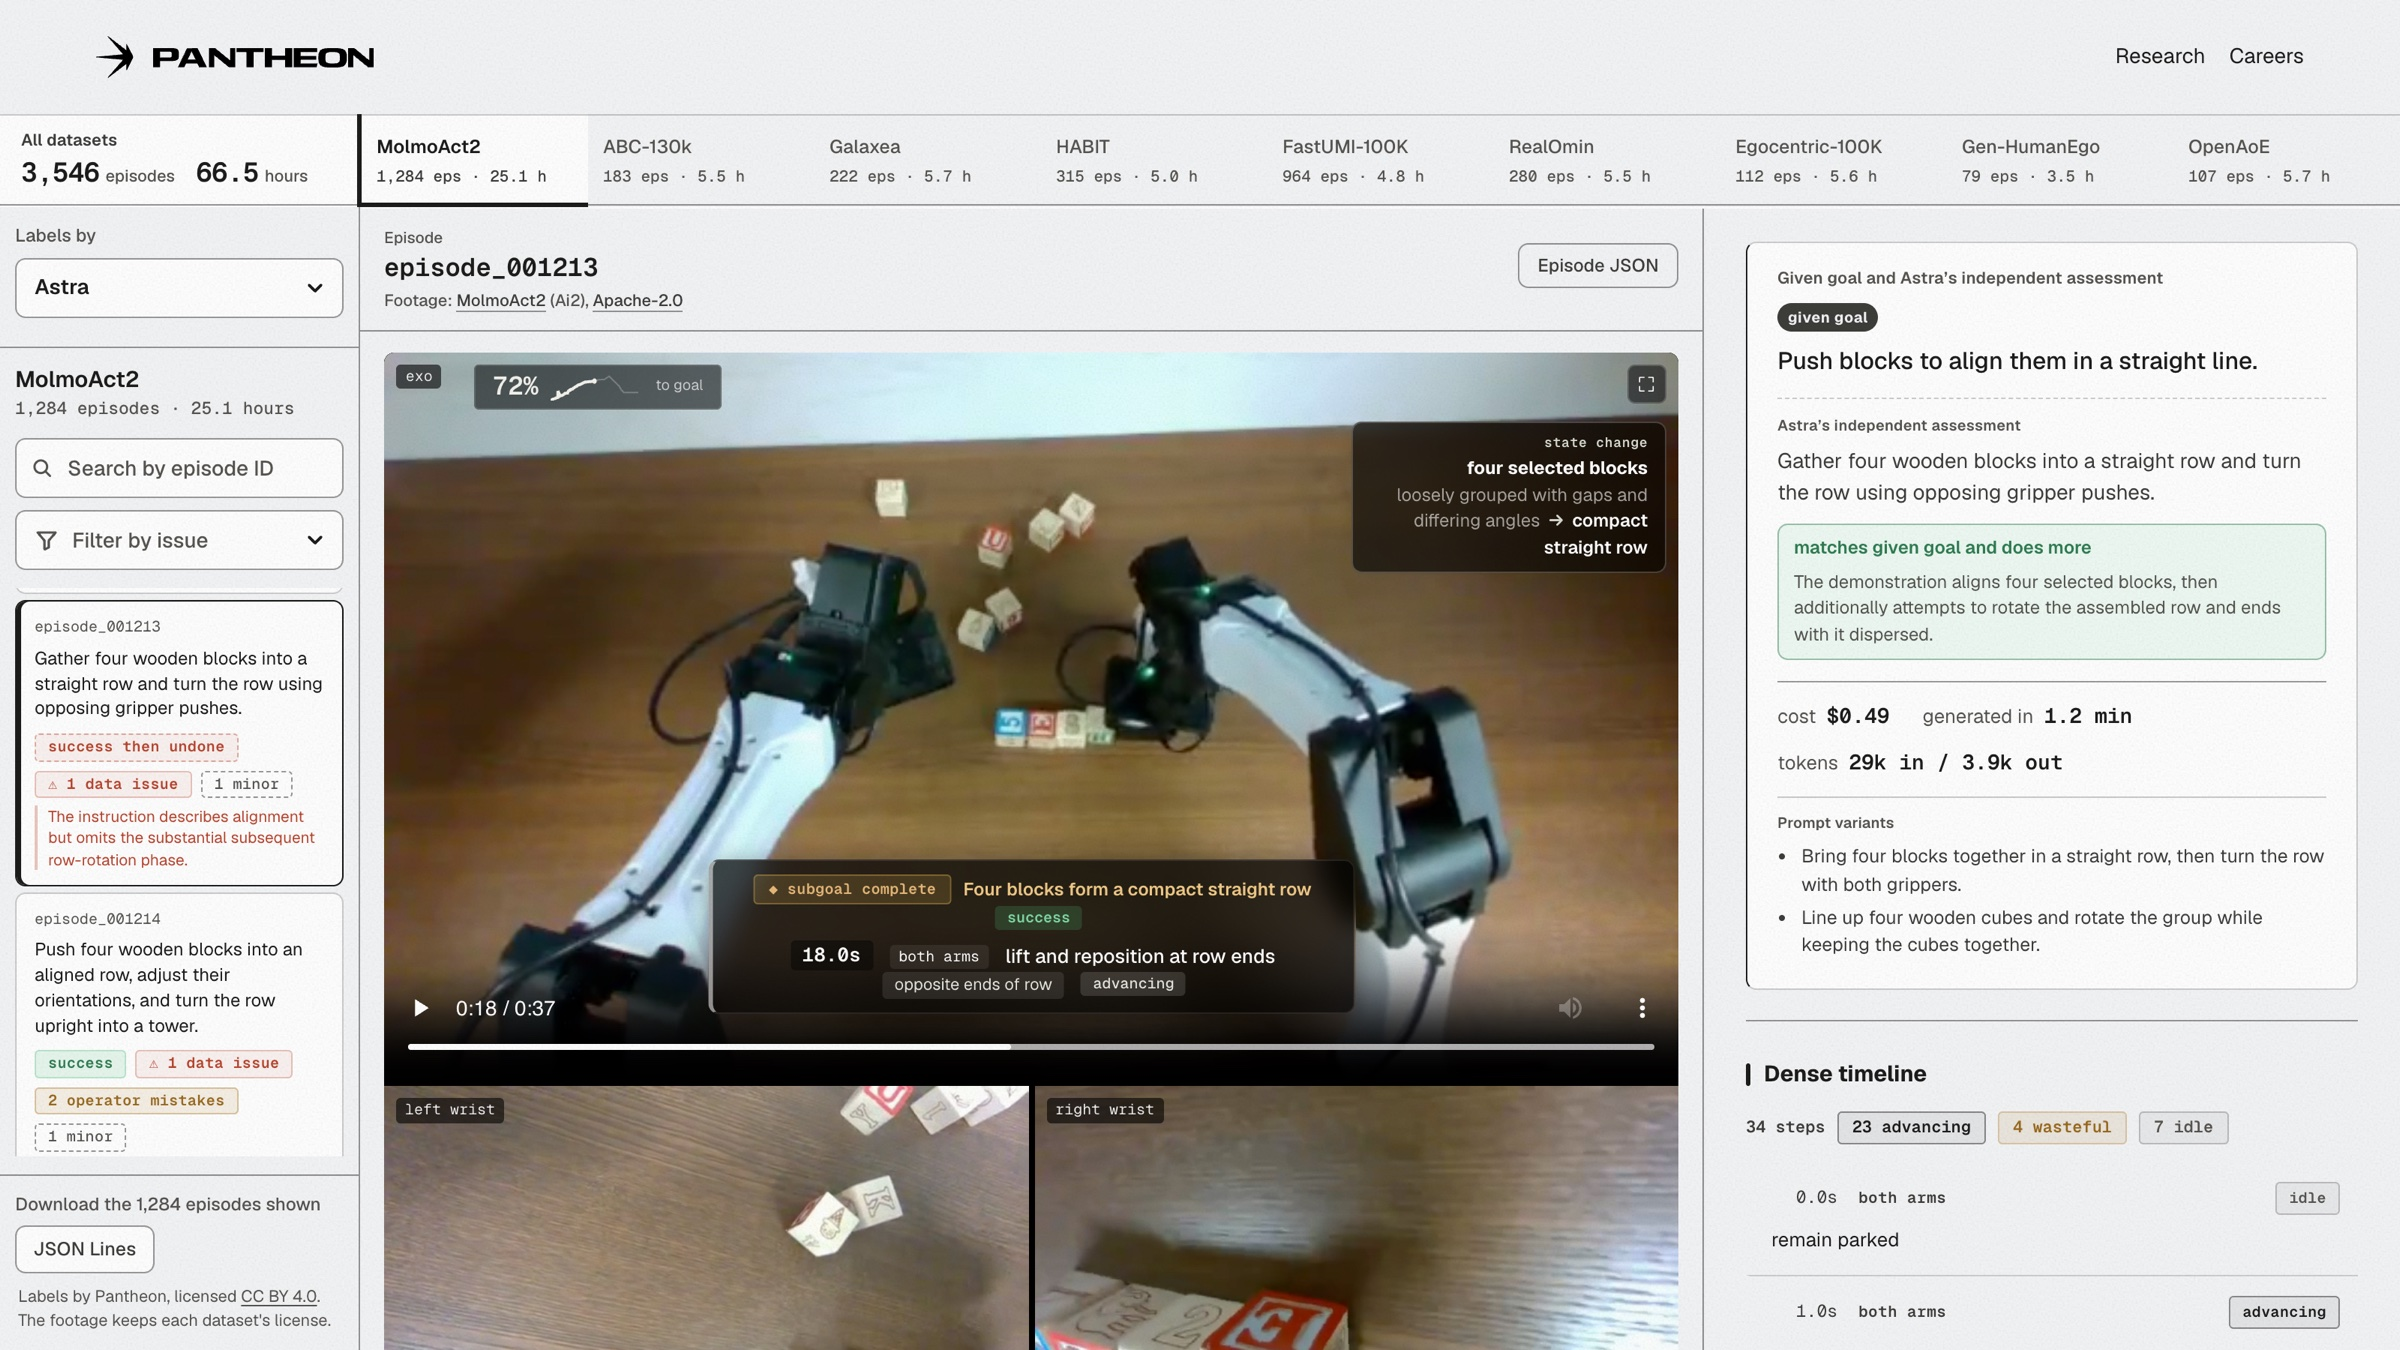
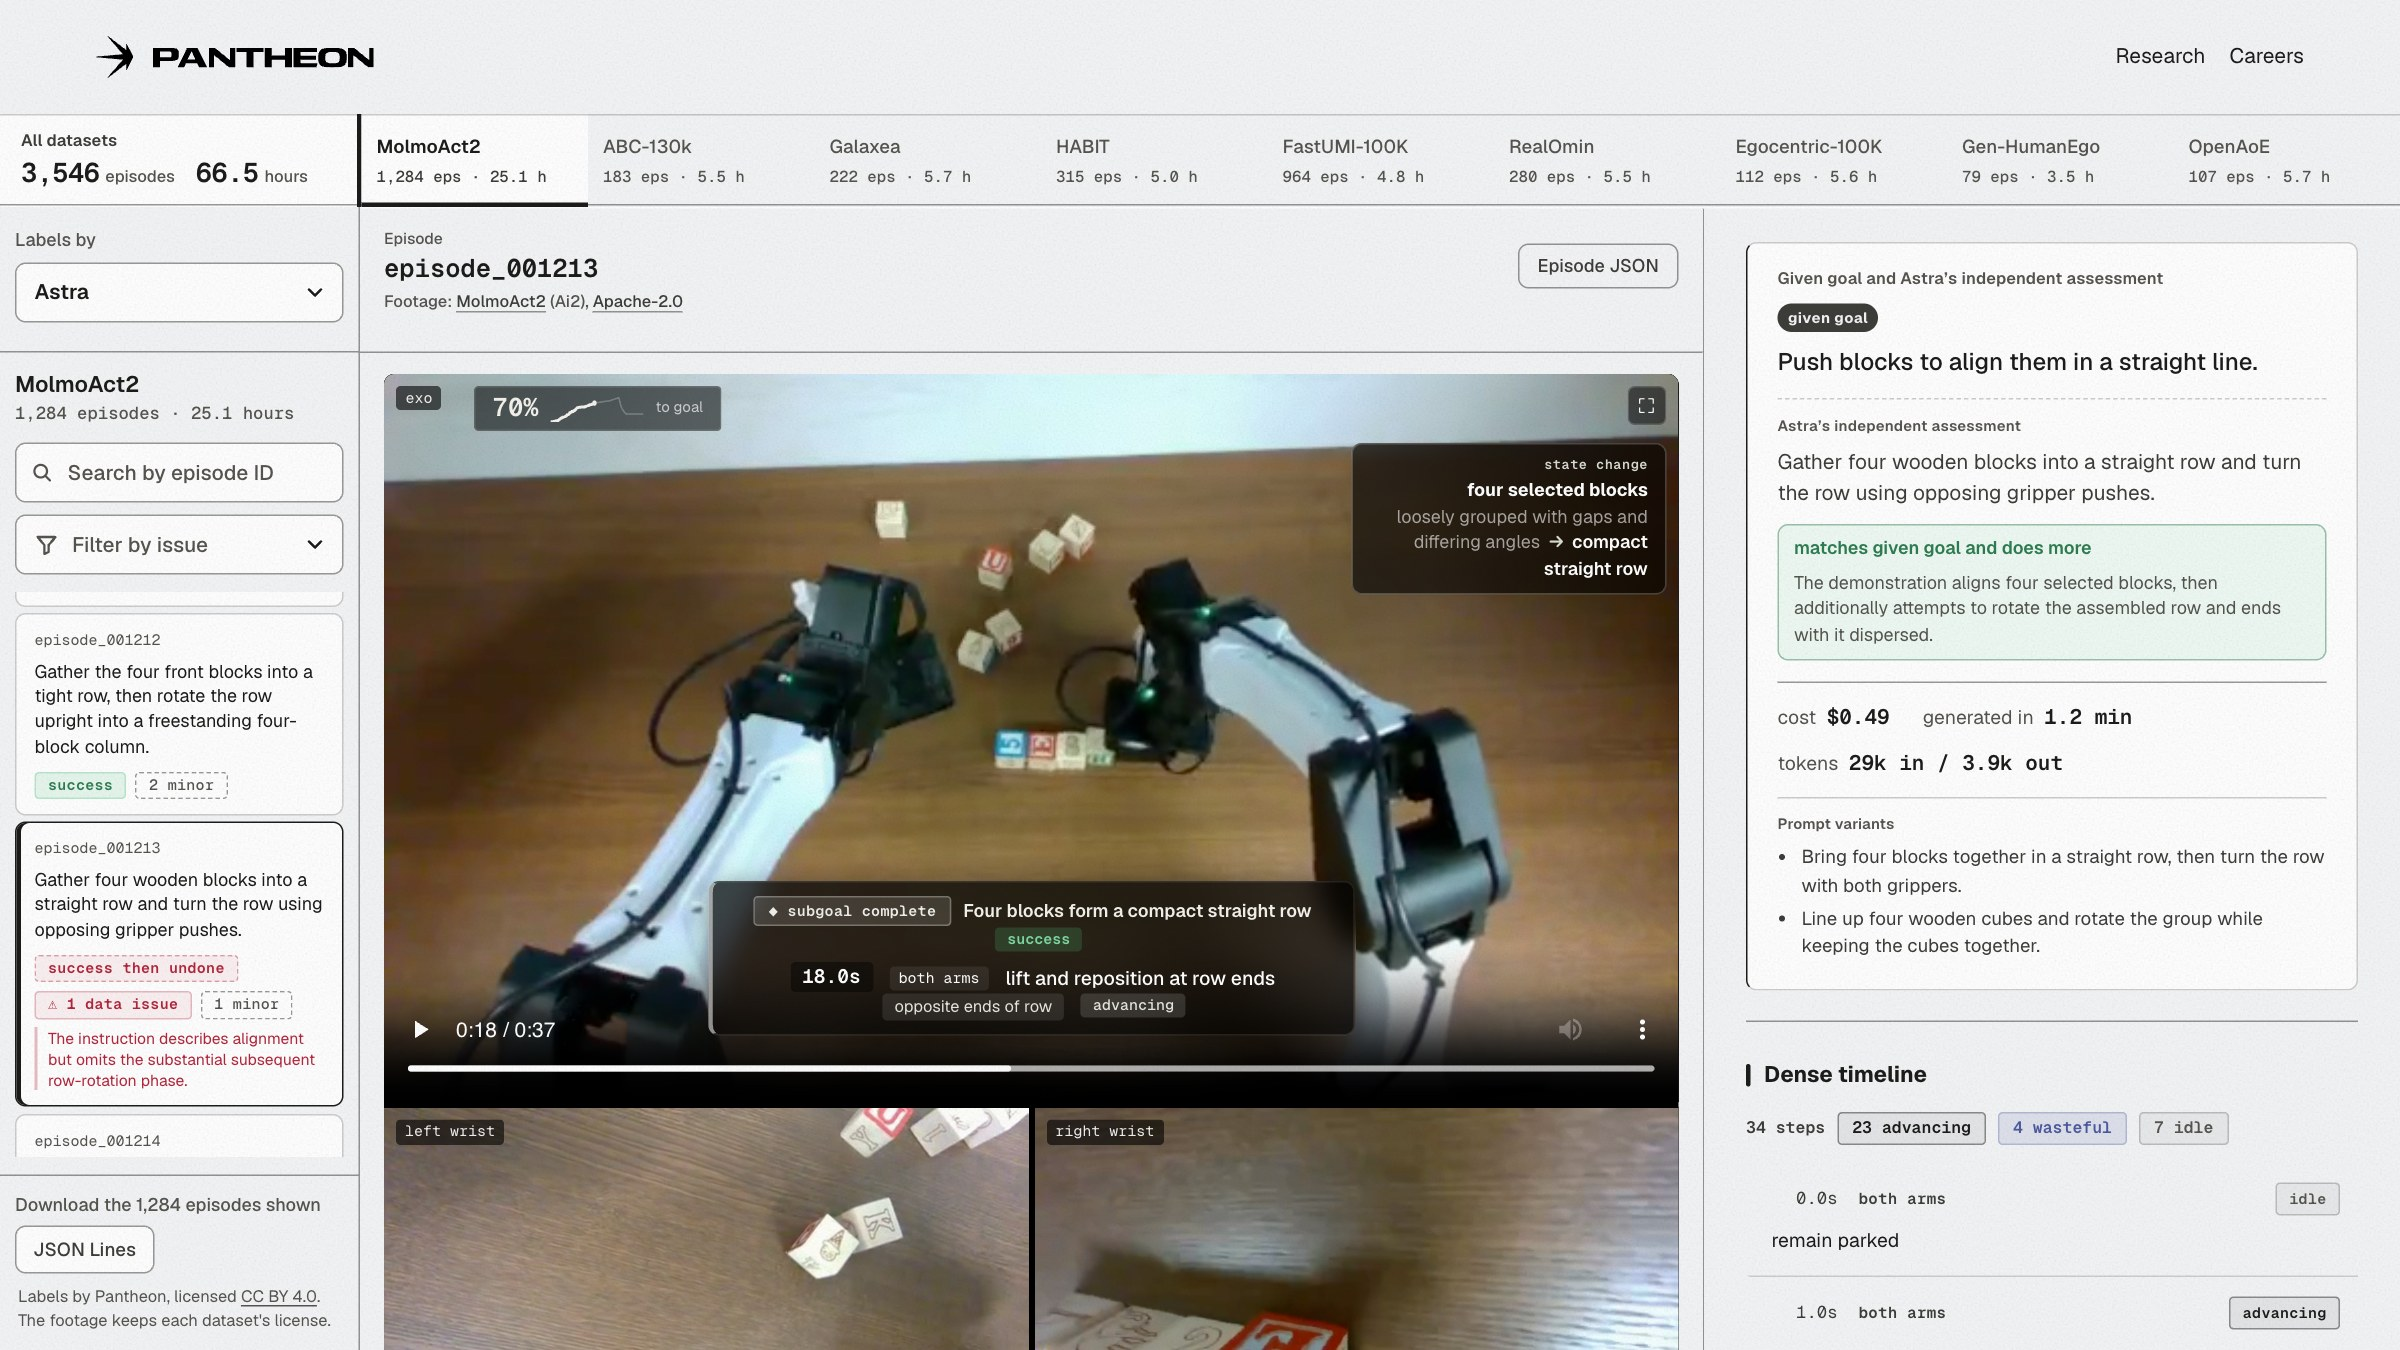
README: the dashboard screenshot in the new palette, and success then undone described as the board shows it

diff --git a/README.md b/README.md
@@ -143,7 +143,7 @@ uv run python -m board static media --board data/boards/mine --clips data/clips 
 uv run python -m board static site --board data/boards/mine --clips data/clips    # static build, page and data
 ```
 
-A dashboard shows the runs named in its `manifest.json`, one `{"dataset", "run", "episodes", "rules"}` entry per dataset, and `board/build.py` documents every key and rule. An issue counts as a problem when it is a data issue or an outcome-changing operator mistake of medium or high severity, or any issue of high severity. The rest stay visible as minor, and each problem belongs to one family in `board/families.json`. A partial outcome is shown as a failure, and success then undone as a success. Episodes download as JSON and filtered lists as JSON Lines, and `board/publish.sh` uploads a static build.
+A dashboard shows the runs named in its `manifest.json`, one `{"dataset", "run", "episodes", "rules"}` entry per dataset, and `board/build.py` documents every key and rule. An issue counts as a problem when it is a data issue or an outcome-changing operator mistake of medium or high severity, or any issue of high severity. The rest stay visible as minor, and each problem belongs to one family in `board/families.json`. A partial outcome is shown as a failure, partly done, and success then undone keeps its own outcome, since the goal it reached no longer holds at the end. Episodes download as JSON and filtered lists as JSON Lines, and `board/publish.sh` uploads a static build.
 
 Human ego episodes can also show 2D hand keypoints from [ACE-Ego-Hand](https://github.com/ggxxii/ACE-Ego-Hand), computed on Modal GPUs by `board/hand_pose/modal_app.py` (you register for and download MANO yourself) and added through the manifest's `hands` key. The keypoints are for non-commercial use only.
 
